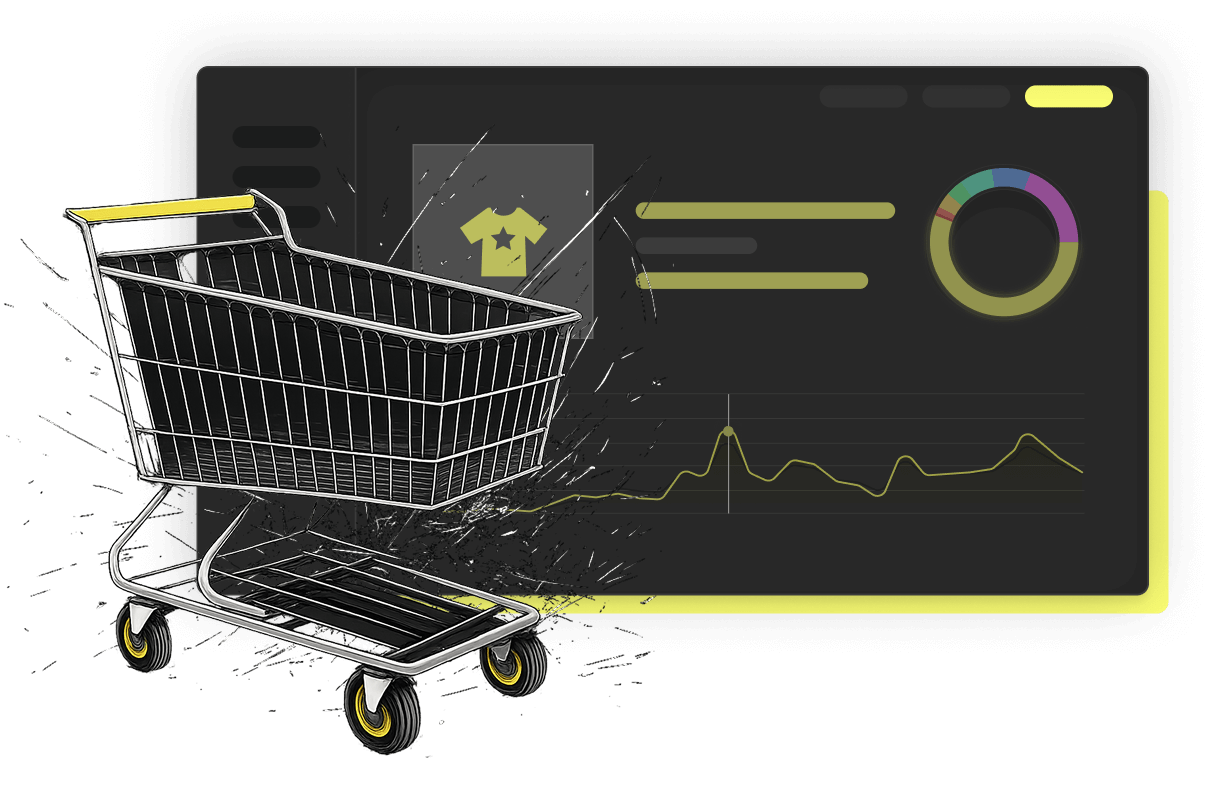
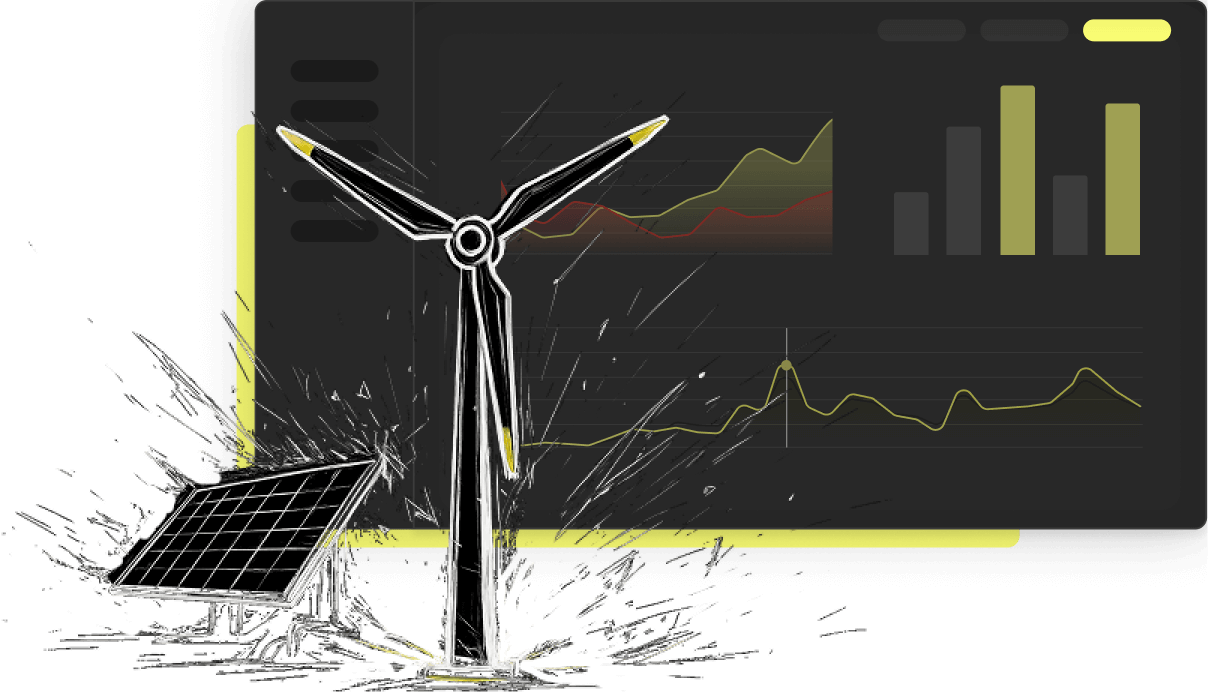
Updated hero image and added some Energy specific seo meta

diff --git a/src/pages/industries/energy/index.tsx b/src/pages/industries/energy/index.tsx
@@ -1,6 +1,7 @@
 import hero from './assets/hero.png'
 import logoNovo from './assets/logo-novo.png'
 import Breadcrumbs from '@/components-cleaned/Breadcrumbs'
+import ContentTicker from '@/components-cleaned/ContentTicker'
 import TickItem from '@/components-cleaned/TickItem'
 import { CUIButton } from '@/components/ClickUI'
 import GetStartedFree from '@/components/GetStartedFree'
@@ -45,11 +46,12 @@ export const getStaticProps: GetStaticProps<PageProps> =
         stories,
         seo: {
           path: '/industries/energy',
-          title: 'Energy analytics in real time with ClickHouse',
+          title:
+            'The fastest real-time database for Energy analytics — ClickHouse',
           description:
-            'Explore how ClickHouse enables instant insights for energy businesses. From high-speed dashboards to customer journey tracking, ClickHouse powers real-time analytics for inventory, ads, and store performance at scale.',
+            'Harness ClickHouse for energy data at scale. Ingest millions of rows per second, enable predictive maintenance, optimize grids, and deliver real-time insights with the fastest open-source database.',
           keywords:
-            'real-time energy analytics, ClickHouse energy, energy dashboards, inventory tracking, customer journey analytics, ad performance, streaming data, high-concurrency analytics, energy data warehouse, in-store analytics, digital energy insights'
+            'energy analytics, real-time energy analytics, energy database, energy data platform, ClickHouse energy, smart grid analytics, renewable energy data, predictive maintenance energy, energy supply chain optimization, energy facility monitoring, energy asset management, energy operations analytics, real-time insights energy, energy cost optimization, energy customer experience, energy data monetization, energy performance monitoring'
         },
         ...commonProps
       }
@@ -114,8 +116,8 @@ export default function EnergyIndustryPage({
             <Image
               src={hero}
               alt='ClickHouse'
-              width={1215 / 1.5}
-              height={798 / 1.5}
+              width={1208 / 1.5}
+              height={692 / 1.5}
               className='h-auto w-full'
               loading='eager'
               priority
@@ -195,32 +197,21 @@ export default function EnergyIndustryPage({
             </div>
           </div>
           <div className='mx-auto max-w-5xl pb-4 pt-16'>
-            <div className='mask-logos-carousel brightness-0 saturate-0'>
-              <div className='pause-hover hide-scrollbar relative flex overflow-hidden'>
-                <div className='flex animate-marqueeLeft items-center whitespace-nowrap'>
-                  {stories.customerStories.logos.map((story, logoIndex) => {
-                    return (
-                      <div
-                        key={logoIndex}
-                        className='w-max flex-shrink-0 flex-grow-0 px-6'>
-                        <StrapiImageUrl {...story.darkLogoPng} />
-                      </div>
-                    )
-                  })}
-                </div>
-                <div className='flex animate-marqueeLeft items-center whitespace-nowrap'>
-                  {stories.customerStories.logos.map((story, logoIndex) => {
-                    return (
-                      <div
-                        key={logoIndex}
-                        className='w-max flex-shrink-0 flex-grow-0 px-6'>
-                        <StrapiImageUrl {...story.darkLogoPng} />
-                      </div>
-                    )
-                  })}
-                </div>
-              </div>
-            </div>
+            <ContentTicker
+              gap='3rem'
+              gradientMask={true}
+              pause={false}
+              sizingMethod='max'>
+              {stories.customerStories.logos.map((story, logoIndex) => {
+                return (
+                  <StrapiImageUrl
+                    key={logoIndex}
+                    className='my-auto flex-shrink-0 flex-grow-0'
+                    {...story.darkLogoPng}
+                  />
+                )
+              })}
+            </ContentTicker>
           </div>
         </div>
       </section>
